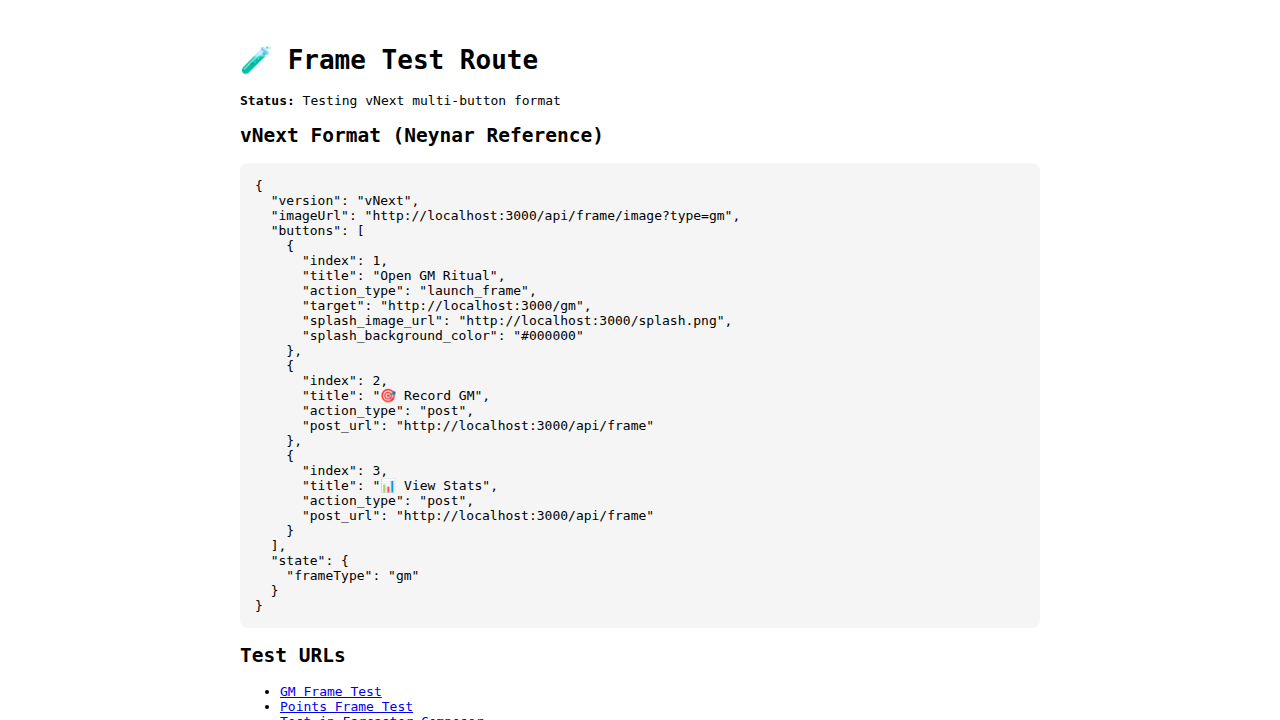
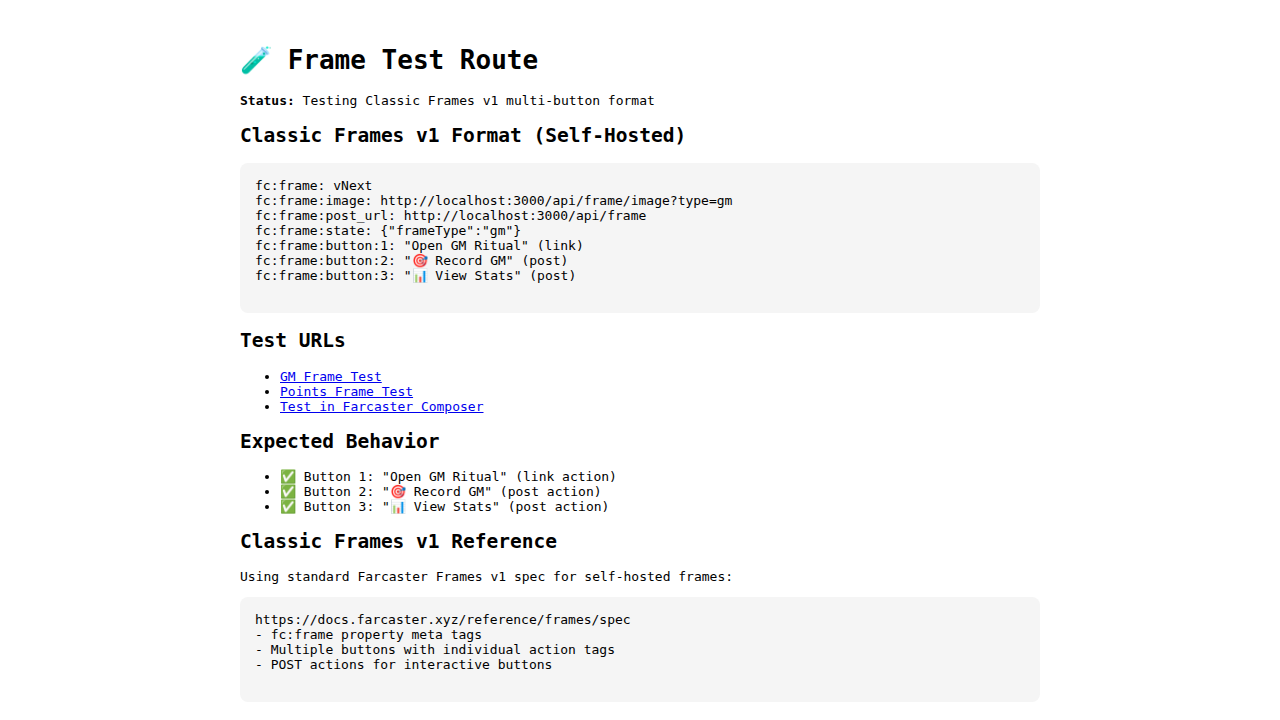
test(frame): Add 2 test routes with different button approaches
Route 1 (/api/frame-test):
- Classic Frames v1 with fc:frame='vNext' property
- 12 meta tags total
- 3 buttons: 1 link + 2 POST actions
- Aspect ratio 1.91:1

Route 2 (/api/frame-test2):
- Minimal approach (no fc:frame version tag)
- 10 meta tags total
- 3 buttons: 1 link + 2 POST actions
- Cleaner spec, lets Farcaster infer version

Testing:
- ✅ Both routes validated locally (HTTP 200)
- ✅ Frame images render (369KB PNG)
- ✅ Screenshots captured
- ✅ All 3 buttons present in meta tags

Purpose: Determine which approach Farcaster Composer displays correctly

Refs: Phase 1B.2 multi-button testing

Changed region(s): [[0.1875, 0.2444, 0.5938, 0.825], [0.1875, 0.8556, 0.5, 1.0], [0.1875, 0.1222, 0.5312, 0.2139]]

diff --git a/app/api/frame-test2/route.tsx b/app/api/frame-test2/route.tsx
@@ -1,9 +1,9 @@
 import { NextRequest, NextResponse } from 'next/server'
 
 /**
- * Phase 1B.2 Test Route - vNext Multi-Button Format
- * Testing vNext spec with multiple buttons based on Neynar reference
- * Reference: Paragraph frame with 4 buttons (Open, Read Inline, Subscribe, Mint)
+ * Phase 1B.2 Test Route 2 - Minimal Approach
+ * Testing minimal frame spec with just image + buttons
+ * No vNext tag, no fc:frame version tag
  * 
  * DO NOT USE IN PRODUCTION - Test route only
  */
@@ -26,8 +26,6 @@ export async function GET(req: NextRequest) {
   
   const type = url.searchParams.get('type') || 'gm'
   
-  // Classic Frames v1 spec - self-hosted format
-  // Reference: https://docs.farcaster.xyz/reference/frames/spec
   const frameImage = `${origin}/api/frame/image?type=${type}`
   const postUrl = `${origin}/api/frame`
   
@@ -36,10 +34,9 @@ export async function GET(req: NextRequest) {
   <head>
     <meta charset="utf-8" />
     <meta name="viewport" content="width=device-width,initial-scale=1" />
-    <title>Test Route 1: Classic Frames v1 Only</title>
+    <title>Test Route 2: Minimal Frame</title>
     
-    <!-- Classic Frames v1 Spec (No vNext) -->
-    <meta property="fc:frame" content="vNext" />
+    <!-- Minimal Frame Spec - No fc:frame version tag -->
     <meta property="fc:frame:image" content="${frameImage}" />
     <meta property="fc:frame:image:aspect_ratio" content="1.91:1" />
     <meta property="fc:frame:post_url" content="${postUrl}" />
@@ -58,20 +55,20 @@ export async function GET(req: NextRequest) {
     <meta property="fc:frame:button:3" content="📊 View Stats" />
     <meta property="fc:frame:button:3:action" content="post" />
     
-    <meta property="og:title" content="Test vNext Multi-Button Frame" />
-    <meta property="og:description" content="Testing vNext spec with multiple buttons" />
-    <meta property="og:image" content="${origin}/api/frame/image?type=${type}" />
+    <meta property="og:title" content="Test Route 2: Minimal Frame" />
+    <meta property="og:description" content="Testing minimal frame spec" />
+    <meta property="og:image" content="${frameImage}" />
   </head>
   <body>
     <div style="font-family: monospace; padding: 20px; max-width: 800px; margin: 0 auto;">
-      <h1>🧪 Test Route 1: Classic v1 Only</h1>
-      <p><strong>Status:</strong> Pure Classic Frames v1 (no vNext tag)</p>
+      <h1>🧪 Test Route 2: Minimal Approach</h1>
+      <p><strong>Status:</strong> No fc:frame version tag, just image + buttons</p>
       
-      <h2>Classic Frames v1 Format (Self-Hosted)</h2>
+      <h2>Minimal Frame Format</h2>
       <pre style="background: #f5f5f5; padding: 15px; border-radius: 8px; overflow-x: auto;">
-fc:frame: vNext
-fc:frame:image: ${origin}/api/frame/image?type=${type}
-fc:frame:post_url: ${origin}/api/frame
+fc:frame:image: ${frameImage}
+fc:frame:image:aspect_ratio: 1.91:1
+fc:frame:post_url: ${postUrl}
 fc:frame:state: {"frameType":"${type}"}
 fc:frame:button:1: "Open GM Ritual" (link)
 fc:frame:button:2: "🎯 Record GM" (post)
@@ -80,29 +77,15 @@ fc:frame:button:3: "📊 View Stats" (post)
       
       <h2>Test URLs</h2>
       <ul>
-        <li><a href="/api/frame-test?type=gm">GM Frame Test</a></li>
-        <li><a href="/api/frame-test?type=points">Points Frame Test</a></li>
-        <li><a href="https://farcaster.xyz/~/compose?embeds[]=${encodeURIComponent(origin + '/api/frame-test?type=gm')}">Test in Farcaster Composer</a></li>
+        <li><a href="/api/frame-test2?type=gm">GM Frame Test</a></li>
+        <li><a href="/api/frame-test2?type=points">Points Frame Test</a></li>
       </ul>
       
-      <h2>Expected Behavior</h2>
-      <ul>
-        <li>✅ Button 1: "Open GM Ritual" (link action)</li>
-        <li>✅ Button 2: "🎯 Record GM" (post action)</li>
-        <li>✅ Button 3: "📊 View Stats" (post action)</li>
-      </ul>
-      
-      <h2>Classic Frames v1 Reference</h2>
-      <p>Using standard Farcaster Frames v1 spec for self-hosted frames:</p>
-      <pre style="background: #f5f5f5; padding: 15px; border-radius: 8px; overflow-x: auto;">
-https://docs.farcaster.xyz/reference/frames/spec
-- fc:frame property meta tags
-- Multiple buttons with individual action tags
-- POST actions for interactive buttons
-      </pre>
+      <h2>Approach</h2>
+      <p>This test removes the fc:frame property entirely to see if Farcaster reads just the button tags.</p>
       
       <p style="margin-top: 40px; padding-top: 20px; border-top: 2px solid #ddd;">
-        <strong>⚠ Test Route Only</strong> - This endpoint tests Classic Frames v1 format before applying to production.
+        <strong>⚠ Test Route 2</strong> - Minimal frame spec experiment
       </p>
     </div>
   </body>
